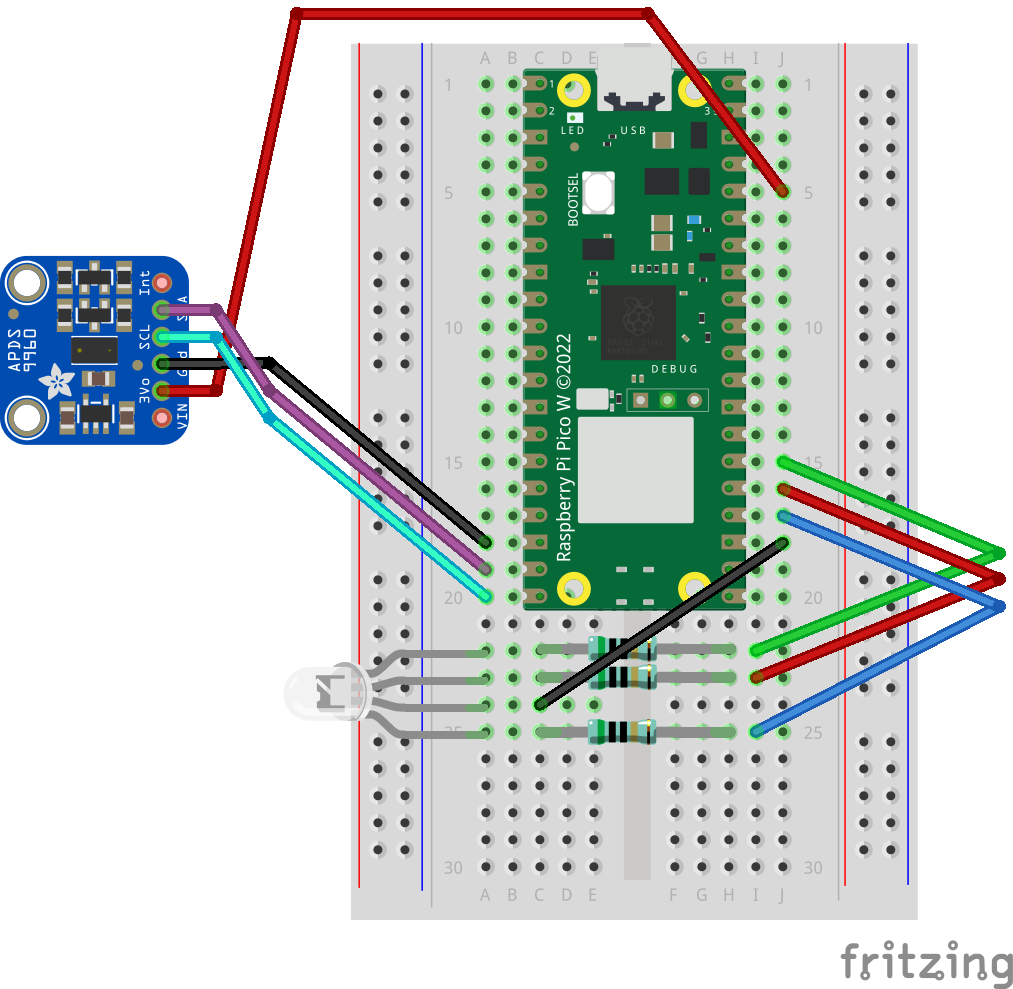
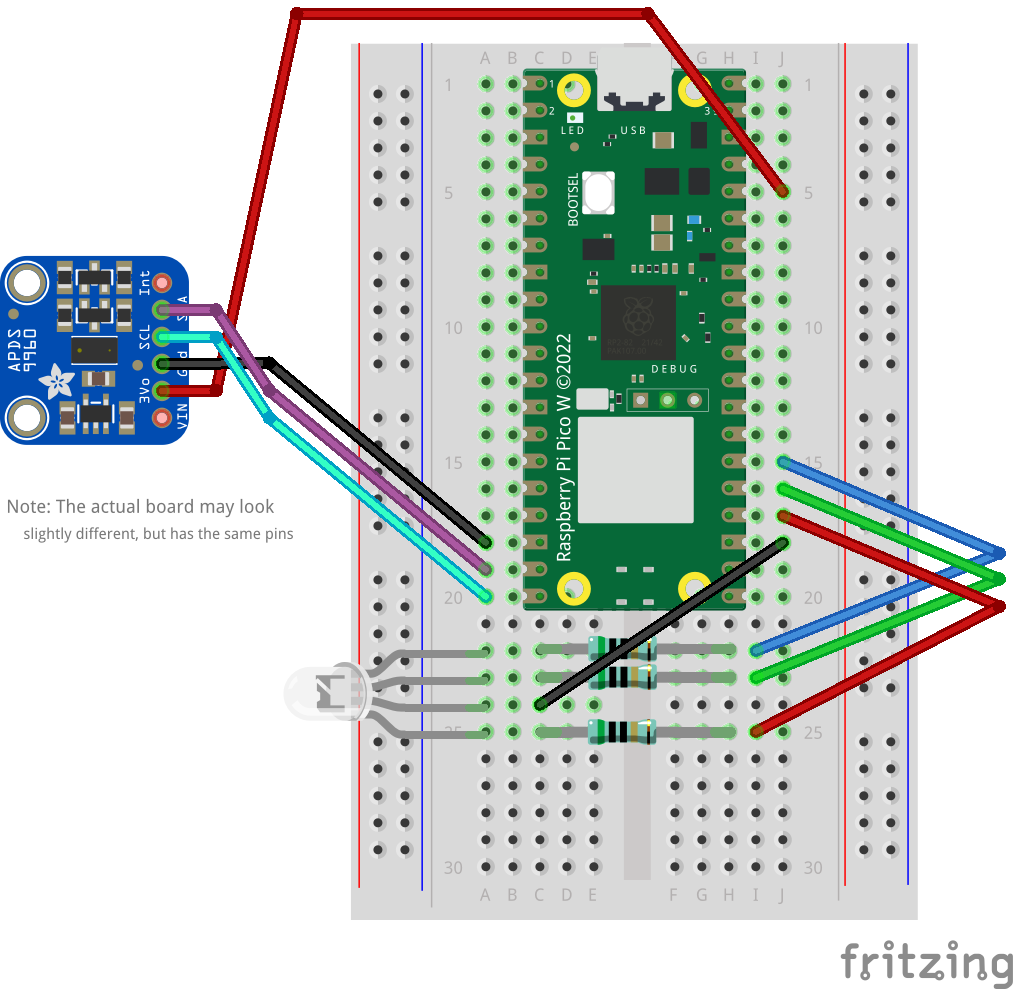
fix: rotate colors to match actual LED
The LED bought on mass has a slightly different pinout than the one used for testing - the colors are mapped differently.

Changed region(s): [[0.7345, 0.455, 1.0, 0.728], [0.0, 0.4853, 0.2754, 0.546], [0.7345, 0.728, 0.7651, 0.7583]]

diff --git a/99-further-examples/wifi-ble/src/led_controller.rs b/99-further-examples/wifi-ble/src/led_controller.rs
@@ -65,9 +65,9 @@ pub(crate) type LedControllerRunner = Runner<
 /// - A runner that needs to be polled (e.g. given to a task) in order for the LED controller to run.
 /// - A [`Watch`] for passing the color to display to the LED controller.
 pub(crate) fn initialize(
-    red_gpio: Peri<'static, PIN_19>,
-    green_gpio: Peri<'static, PIN_20>,
-    blue_gpio: Peri<'static, PIN_18>,
+    red_gpio: Peri<'static, PIN_18>,
+    green_gpio: Peri<'static, PIN_19>,
+    blue_gpio: Peri<'static, PIN_20>,
 ) -> (LedControllerRunner, &'static ColorWatch<2>) {
     let red_pin = Output::new(red_gpio, Level::Low);
     let green_pin = Output::new(green_gpio, Level::Low);

diff --git a/03-wifi/example/src/led_controller.rs b/03-wifi/example/src/led_controller.rs
@@ -61,9 +61,9 @@ impl LedControllerRunner {
 /// - A runner that needs to be polled (e.g. given to a task) in order for the LED controller to run.
 /// - A [`Watch`] for passing the color to display to the LED controller.
 pub(crate) fn initialize(
-    red_gpio: Peri<'static, PIN_19>,
-    green_gpio: Peri<'static, PIN_20>,
-    blue_gpio: Peri<'static, PIN_18>,
+    red_gpio: Peri<'static, PIN_18>,
+    green_gpio: Peri<'static, PIN_19>,
+    blue_gpio: Peri<'static, PIN_20>,
 ) -> (LedControllerRunner, &'static ColorWatch) {
     // Initialize a `TriColorLed` to work with.
     let red_led = Output::new(red_gpio, Level::Low);

diff --git a/02-distance-light/example/src/main.rs b/02-distance-light/example/src/main.rs
@@ -34,9 +34,9 @@ async fn main(_spawner: Spawner) {
 
     // Set all pins to low initially.
     // We don't need the blue pin for the traffic light, so just make sure to turn it off initially.
-    let mut output_red = Output::new(PIN_19, Level::Low);
-    let mut output_green = Output::new(PIN_20, Level::Low);
-    let _output_blue = Output::new(PIN_18, Level::Low); 
+    let mut output_red = Output::new(PIN_18, Level::Low);
+    let mut output_green = Output::new(PIN_19, Level::Low);
+    let _output_blue = Output::new(PIN_20, Level::Low); 
 
     // Instantiate the I2C bus with the correct pins.
     let sda = PIN_14;

diff --git a/01-multicolor-led/example/src/main.rs b/01-multicolor-led/example/src/main.rs
@@ -24,9 +24,9 @@ async fn main(_spawner: Spawner) {
     } = embassy_rp::init(Default::default());
 
     // Set all pins to low initially.
-    let mut output_red = Output::new(PIN_19, Level::Low);
-    let mut output_green = Output::new(PIN_20, Level::Low);
-    let mut output_blue = Output::new(PIN_18, Level::Low);
+    let mut output_red = Output::new(PIN_18, Level::Low);
+    let mut output_green = Output::new(PIN_19, Level::Low);
+    let mut output_blue = Output::new(PIN_20, Level::Low);
 
     // Change LED color every half a second.
     let mut ticker = Ticker::every(Duration::from_millis(500));

diff --git a/03-wifi/src/led_controller.rs b/03-wifi/src/led_controller.rs
@@ -53,9 +53,9 @@ impl LedControllerRunner {
 /// - A runner that needs to be polled (e.g. given to a task) in order for the LED controller to run.
 /// - A [`Watch`] for passing the color to display to the LED controller.
 pub(crate) fn initialize(
-    red_gpio: Peri<'static, PIN_19>,
-    green_gpio: Peri<'static, PIN_20>,
-    blue_gpio: Peri<'static, PIN_18>,
+    red_gpio: Peri<'static, PIN_18>,
+    green_gpio: Peri<'static, PIN_19>,
+    blue_gpio: Peri<'static, PIN_20>,
 ) -> (LedControllerRunner, &'static ColorWatch) {
     let tri_color_led = todo!("Initialize a `TriColorLed` to work with.");
 

diff --git a/02-distance-light/src/main.rs b/02-distance-light/src/main.rs
@@ -32,9 +32,9 @@ async fn main(_spawner: Spawner) {
     } = embassy_rp::init(Default::default());
 
     // Set all pins to low initially.
-    let mut output_red = Output::new(PIN_19, Level::Low);
-    let mut output_green = Output::new(PIN_20, Level::Low);
-    let mut output_blue = Output::new(PIN_18, Level::Low);
+    let mut output_red = Output::new(PIN_18, Level::Low);
+    let mut output_green = Output::new(PIN_19, Level::Low);
+    let mut output_blue = Output::new(PIN_20, Level::Low);
 
     let sda = PIN_14;
     let scl = PIN_15;

diff --git a/99-further-examples/gesture-toggle-lamp-interrupt/src/main.rs b/99-further-examples/gesture-toggle-lamp-interrupt/src/main.rs
@@ -150,9 +150,9 @@ async fn main(_spawner: Spawner) {
         ..
     } = embassy_rp::init(Default::default());
 
-    let mut output_red = Output::new(PIN_19, Level::Low);
-    let mut output_green = Output::new(PIN_20, Level::Low);
-    let mut output_blue = Output::new(PIN_18, Level::Low);
+    let mut output_red = Output::new(PIN_18, Level::Low);
+    let mut output_green = Output::new(PIN_19, Level::Low);
+    let mut output_blue = Output::new(PIN_20, Level::Low);
 
     let sda = PIN_14;
     let scl = PIN_15;

diff --git a/99-further-examples/gesture-toggle-lamp/src/main.rs b/99-further-examples/gesture-toggle-lamp/src/main.rs
@@ -128,9 +128,9 @@ async fn main(_spawner: Spawner) {
         ..
     } = embassy_rp::init(Default::default());
 
-    let mut output_red = Output::new(PIN_19, Level::Low);
-    let mut output_green = Output::new(PIN_20, Level::Low);
-    let mut output_blue = Output::new(PIN_18, Level::Low);
+    let mut output_red = Output::new(PIN_18, Level::Low);
+    let mut output_green = Output::new(PIN_19, Level::Low);
+    let mut output_blue = Output::new(PIN_20, Level::Low);
 
     let sda = PIN_14;
     let scl = PIN_15;

diff --git a/99-further-examples/nightlight/src/main.rs b/99-further-examples/nightlight/src/main.rs
@@ -42,9 +42,9 @@ async fn main(_spawner: Spawner) {
         ..
     } = embassy_rp::init(Default::default());
 
-    let mut output_red = Output::new(PIN_19, Level::Low);
-    let mut output_green = Output::new(PIN_20, Level::Low);
-    let mut output_blue = Output::new(PIN_18, Level::Low);
+    let mut output_red = Output::new(PIN_18, Level::Low);
+    let mut output_green = Output::new(PIN_19, Level::Low);
+    let mut output_blue = Output::new(PIN_20, Level::Low);
 
     let sda = PIN_14;
     let scl = PIN_15;

diff --git a/03-wifi/example/src/main.rs b/03-wifi/example/src/main.rs
@@ -170,7 +170,7 @@ async fn main(spawner: Spawner) {
 
     // Now our tasks:
     info!("Initializing LED controller");
-    let (led_controller_runner, watch) = led_controller::initialize(PIN_19, PIN_20, PIN_18);
+    let (led_controller_runner, watch) = led_controller::initialize(PIN_18, PIN_19, PIN_20);
 
     info!("Initializing web server");
     let mut webserver_task_factory = webserver::initialize(network_stack, watch.sender());

diff --git a/99-further-examples/wifi-ble/src/main.rs b/99-further-examples/wifi-ble/src/main.rs
@@ -159,7 +159,7 @@ async fn main(spawner: Spawner) {
         DMA_CH0,
     );
 
-    let (led_controller_runner, watch) = led_controller::initialize(PIN_19, PIN_20, PIN_18);
+    let (led_controller_runner, watch) = led_controller::initialize(PIN_18, PIN_19, PIN_20);
 
     info!("Initializing CYW43");
 

diff --git a/01-multicolor-led/README.md b/01-multicolor-led/README.md
@@ -25,7 +25,7 @@ As a schematic, the LED looks like this:
 There is one pin per channel, plus a shared pin for connecting back to ground / 0V (this is taken from the [LED's datasheet](https://www.inolux-corp.com/datasheet/Inolux%20Lamp/TH%20Lamp/HV-5RGBXX%205mm%20Full-Color%20Series.pdf), which you can also find in the [`datasheets`](../datasheets) folder in this repository).
 We'll wire one output pin of the Pico 2 to each channel with a resistor in between to protect the LED and wire up the LED's ground pin to connect to a Pico 2 pin that exposes the Pico's ground so both parts agree on what 0V means exactly.
 
-Note how the pins / channels of the LED are numbered: pin 1 is green, 2 is red, 3 is ground and 4 is blue.
+Note how the pins / channels of the LED are numbered: pin 1 is blue, 2 is green, 3 is ground and 4 is red.
 You can check that you've got the LED the right way round by looking at the bottom end of the pins: pin 3 is longest, while pin 4 is shortest.
 This is illustrated on the following diagram:
 
@@ -52,7 +52,7 @@ The following image shows how to wire up the LED and resistors.
 
 </div>
 
-We're using GPIO pins 18 to 20 for the blue, red and green channel (respectively) and the pin right below them should be labelled ground in the pinout.
+We're using GPIO pins 18 to 20 for the red, green and blue channel (respectively) and the pin right below them should be labelled ground in the pinout.
 If you position the Pico 2 right at the top of the breadboard, you can match the pin numbers against the row numbers on the left-hand side of the board.
 
 > [!IMPORTANT]
